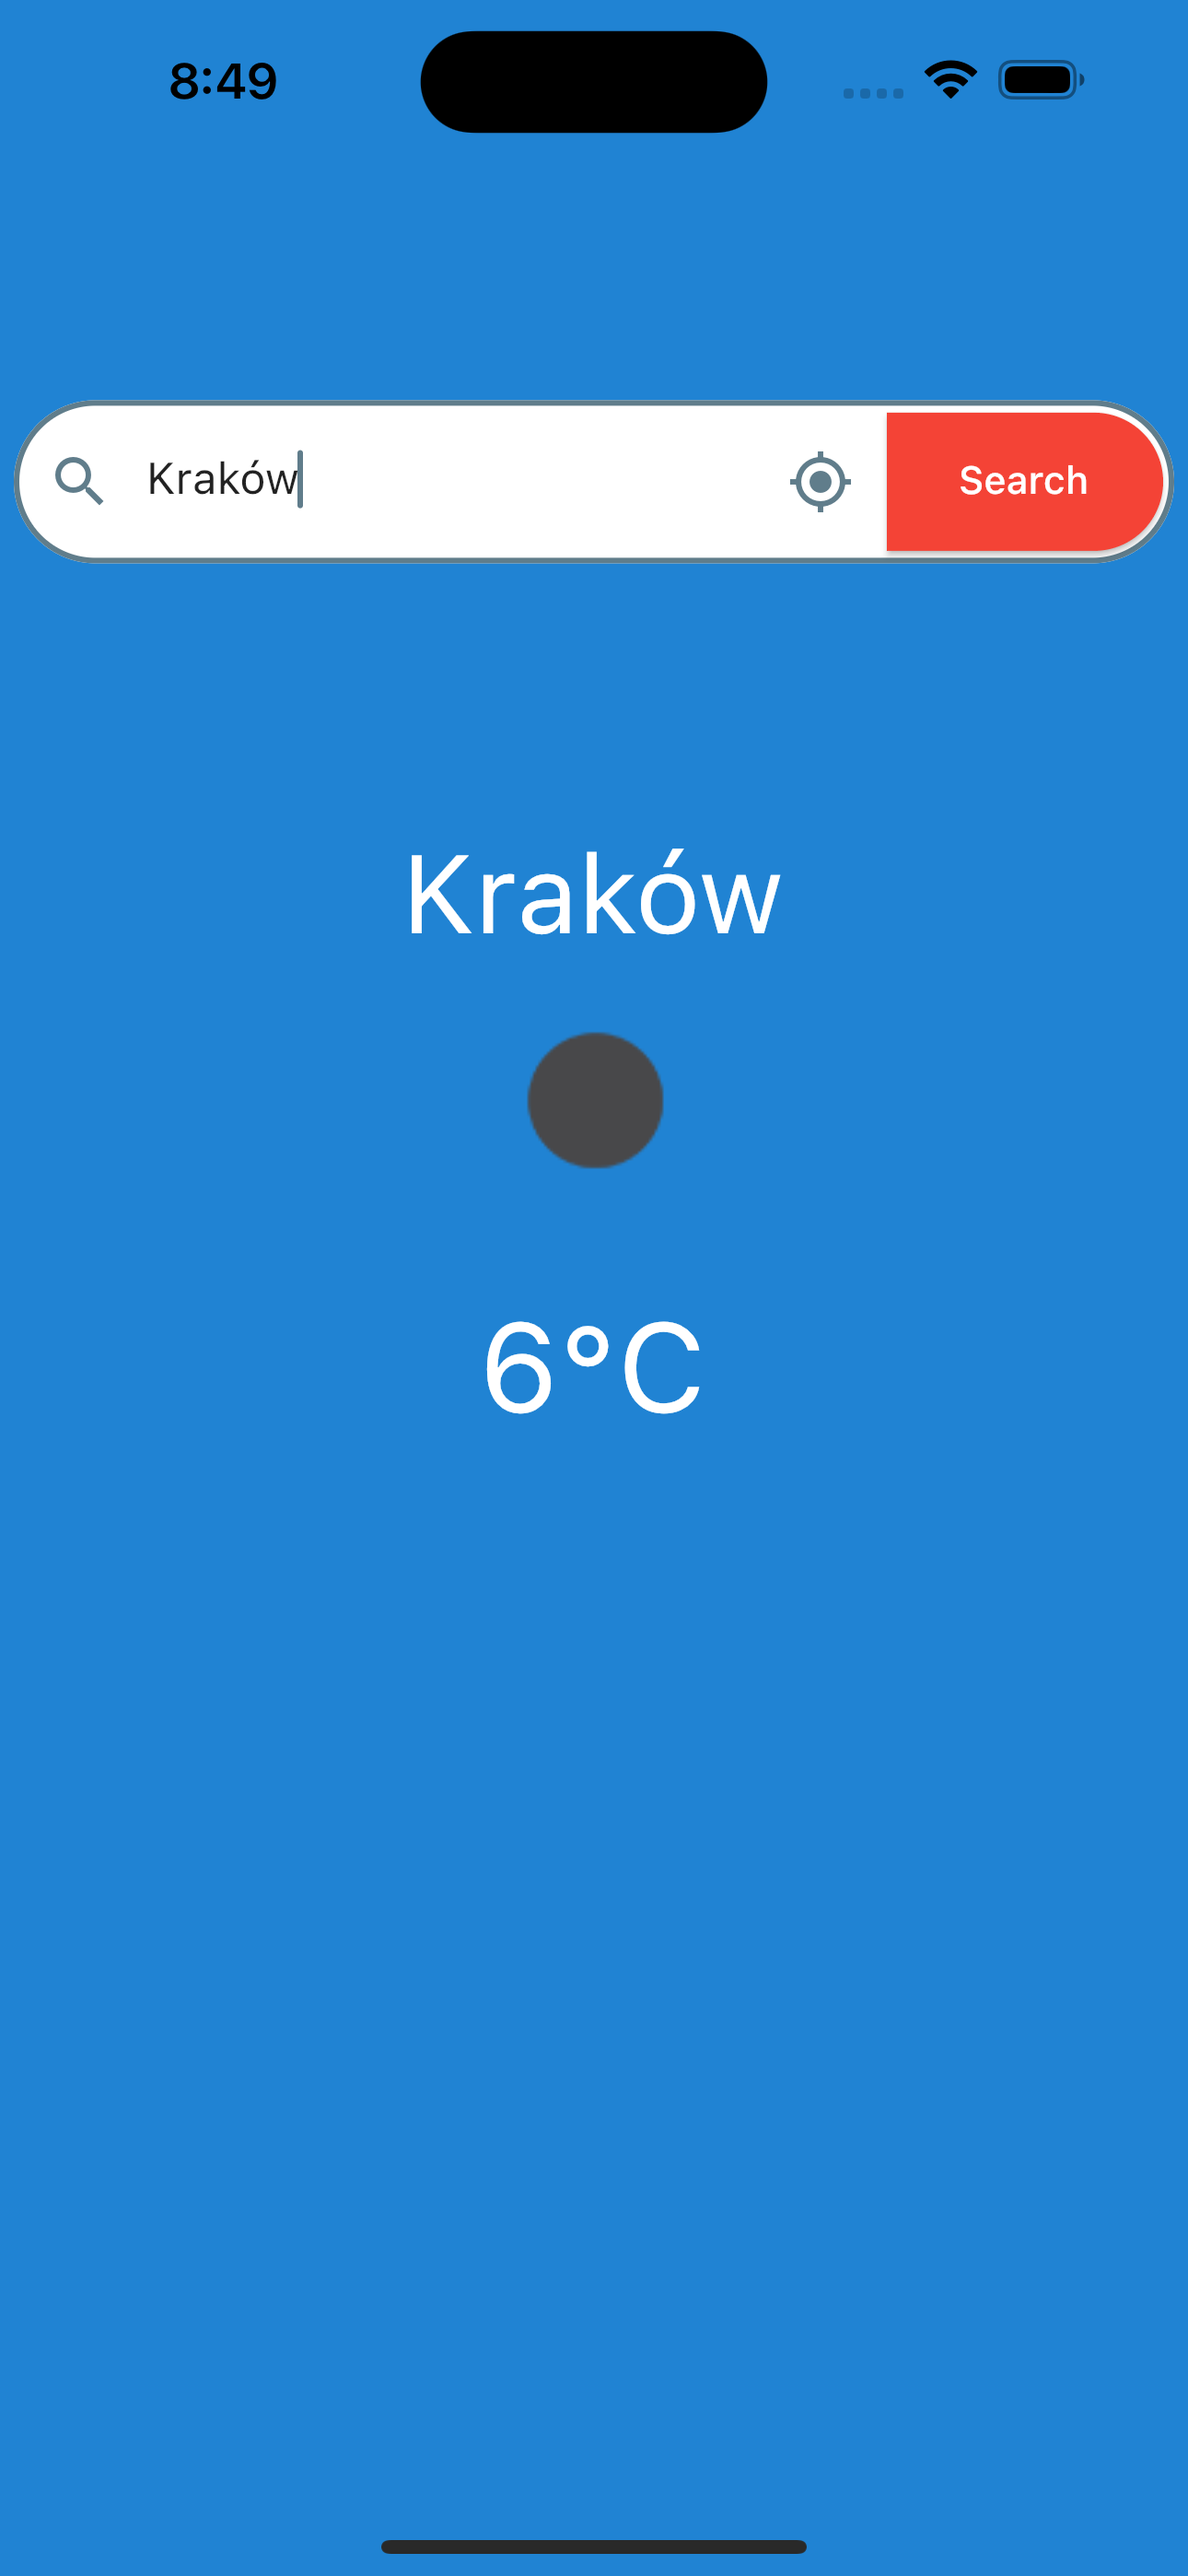
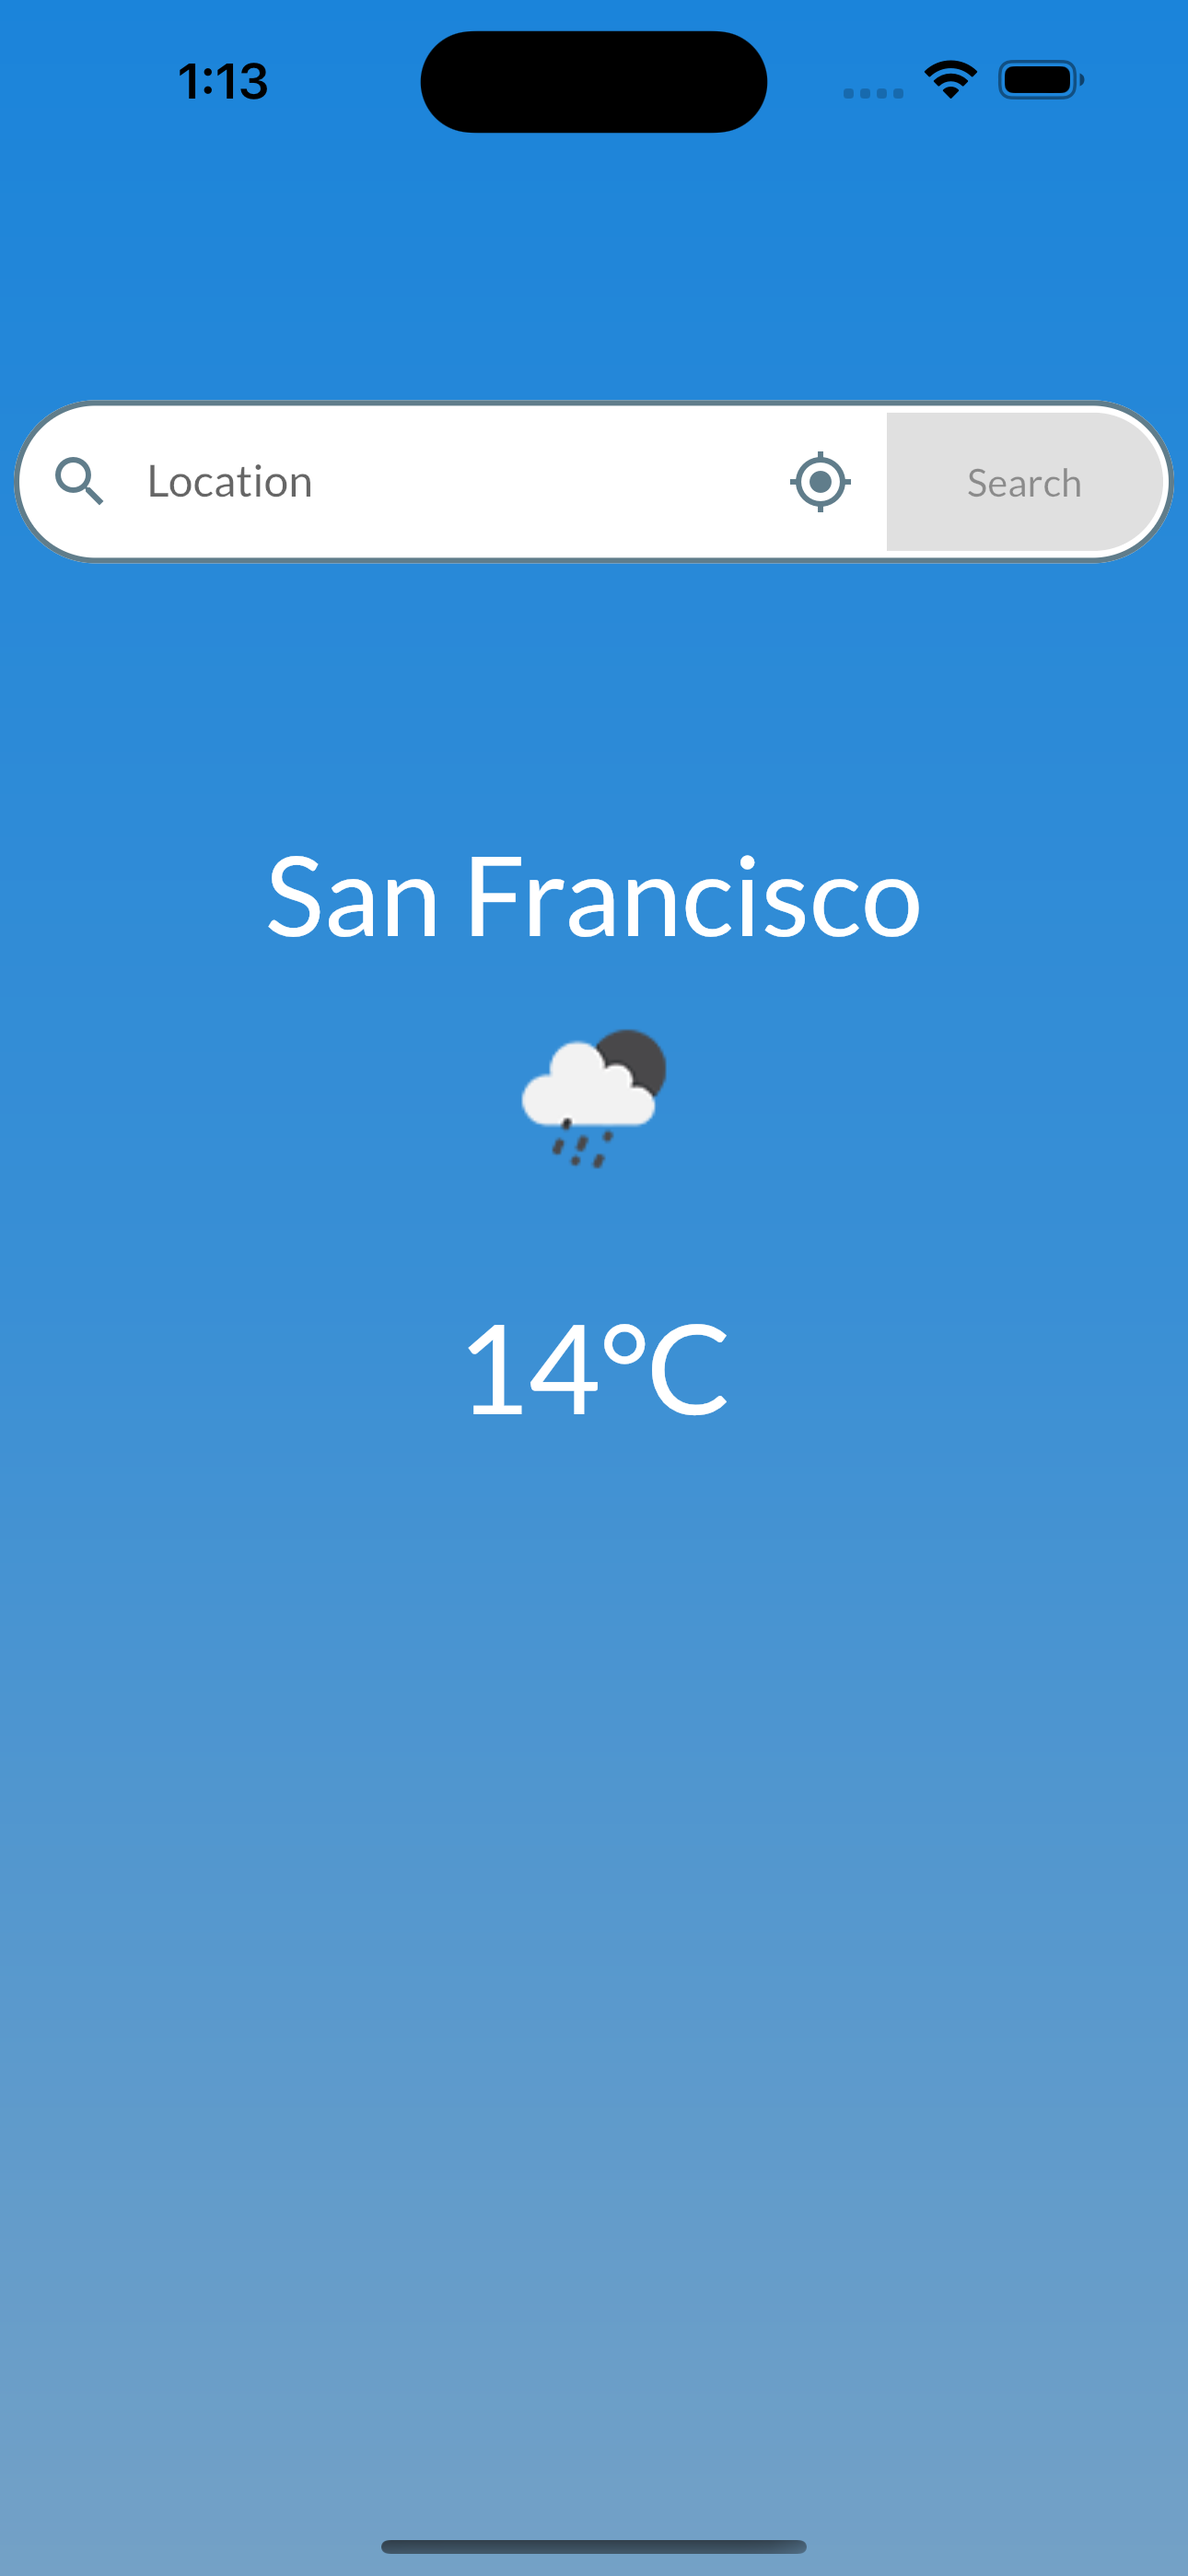
New fonts and background

diff --git a/lib/main.dart b/lib/main.dart
@@ -5,6 +5,7 @@ import 'package:geocoding/geocoding.dart';
 import 'package:geolocator/geolocator.dart';
 import './widgets/ActualWeather.dart';
 import './widgets/SearchBar.dart';
+import 'package:google_fonts/google_fonts.dart';
 
 void main() {
   runApp(const MyApp());
@@ -19,6 +20,7 @@ class MyApp extends StatelessWidget {
       debugShowCheckedModeBanner: false,
       title: 'WeatherApp',
       theme: ThemeData(
+        textTheme: GoogleFonts.latoTextTheme(),
         primarySwatch: Colors.blueGrey,
       ),
       home: const MyHomePage(title: 'WeatherApp'),
@@ -147,25 +149,36 @@ class _MyHomePageState extends State<MyHomePage> {
   Widget build(BuildContext context) {
     return Scaffold(
       resizeToAvoidBottomInset: false,
-      backgroundColor: const Color.fromARGB(255, 32, 131, 211),
-      body: Column(
-        children: [
-          SizedBox(
-            height: MediaQuery.of(context).size.height * 0.15,
-          ),
-          SizedBox(
+      backgroundColor: Colors.transparent,
+      body: Container(
+        decoration: const BoxDecoration(
+            gradient: LinearGradient(
+                begin: Alignment.topCenter,
+                end: Alignment.bottomCenter,
+                colors: [
+              Color.fromARGB(255, 27, 132, 218),
+              Color.fromARGB(255, 57, 143, 213),
+              Color.fromARGB(255, 116, 161, 198)
+            ])),
+        child: Column(
+          children: [
+            SizedBox(
               height: MediaQuery.of(context).size.height * 0.15,
-              child: Searchbar(cityNameController, gettingLiveDataFromApiByCity,
-                  gettingLiveDataFromApiByGps)),
-          SizedBox(
-            height: MediaQuery.of(context).size.height * 0.5,
-            width: double.infinity,
-            child: ActualWeather(city, data, temp),
-          ),
-          SizedBox(
-            height: MediaQuery.of(context).size.height * 0.2,
-          ),
-        ],
+            ),
+            SizedBox(
+                height: MediaQuery.of(context).size.height * 0.15,
+                child: Searchbar(cityNameController,
+                    gettingLiveDataFromApiByCity, gettingLiveDataFromApiByGps)),
+            SizedBox(
+              height: MediaQuery.of(context).size.height * 0.5,
+              width: double.infinity,
+              child: ActualWeather(city, data, temp),
+            ),
+            SizedBox(
+              height: MediaQuery.of(context).size.height * 0.2,
+            ),
+          ],
+        ),
       ),
     );
   }

diff --git a/macos/Flutter/GeneratedPluginRegistrant.swift b/macos/Flutter/GeneratedPluginRegistrant.swift
@@ -6,7 +6,9 @@ import FlutterMacOS
 import Foundation
 
 import geolocator_apple
+import path_provider_macos
 
 func RegisterGeneratedPlugins(registry: FlutterPluginRegistry) {
   GeolocatorPlugin.register(with: registry.registrar(forPlugin: "GeolocatorPlugin"))
+  PathProviderPlugin.register(with: registry.registrar(forPlugin: "PathProviderPlugin"))
 }
